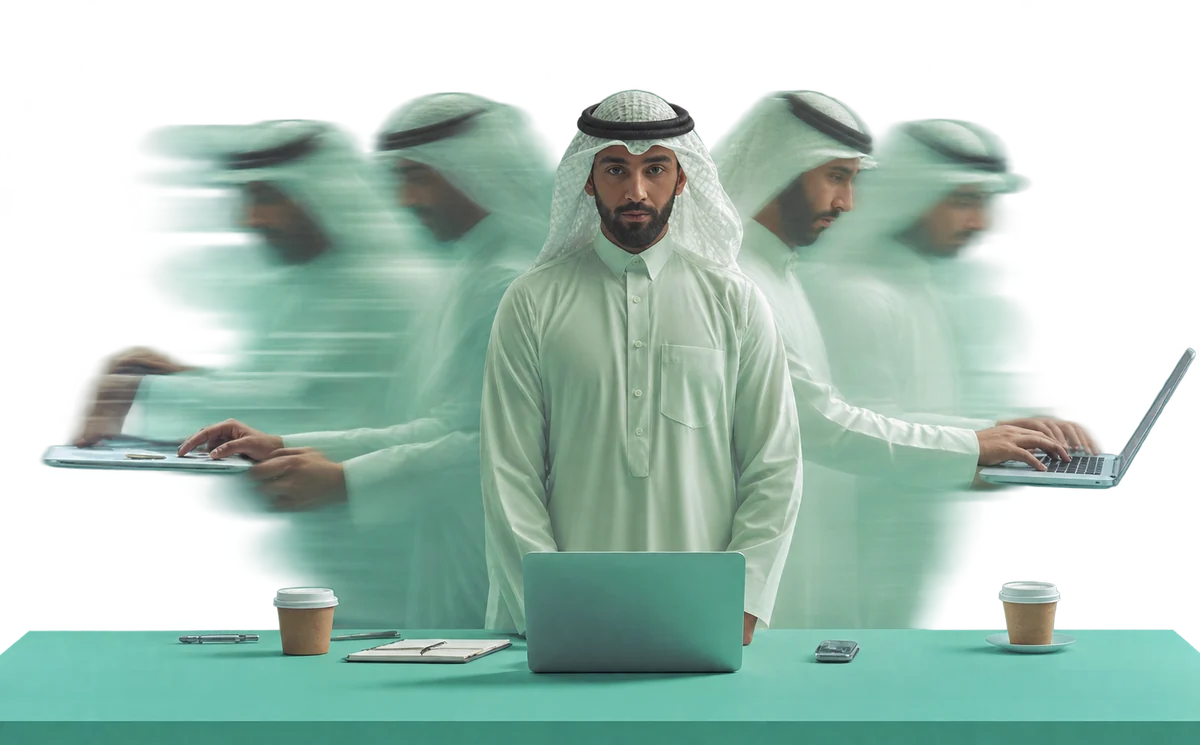
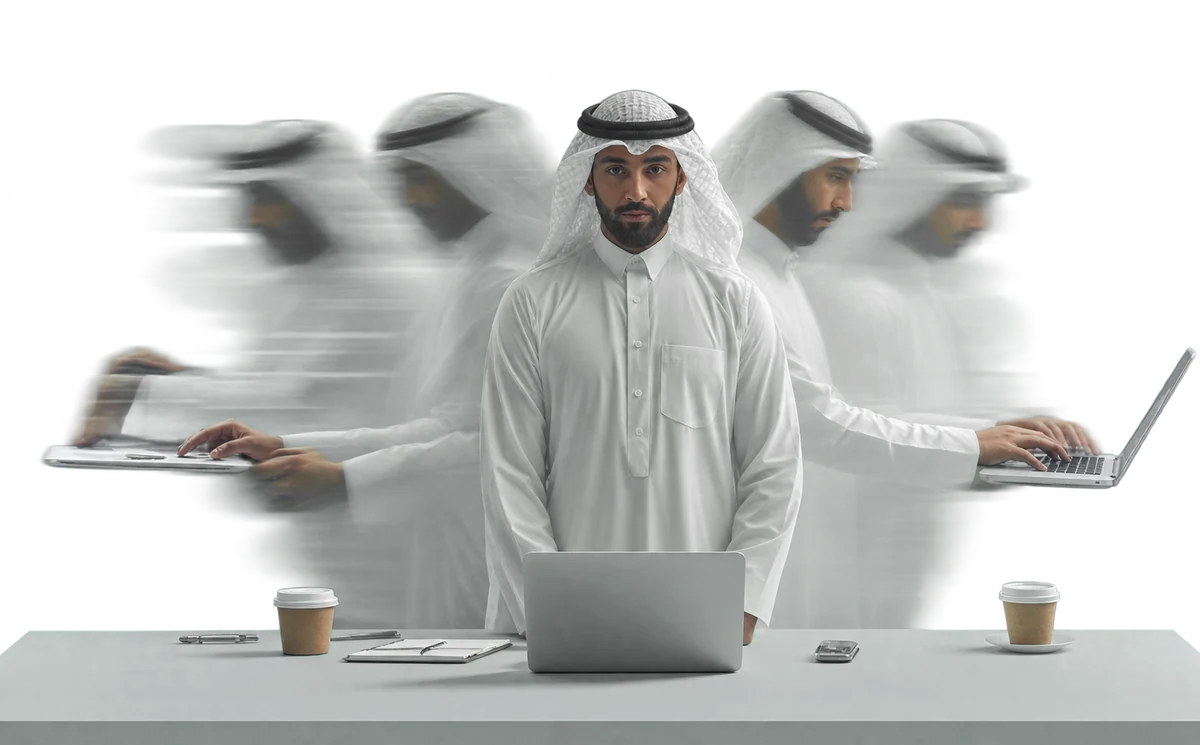
Remove green tint from multitask image; restore card backgrounds
Claude-Session: https://claude.ai/code/session_01Q8SfPFzKec2UT1Fop63zbA

diff --git a/services.html b/services.html
@@ -7211,7 +7211,6 @@ input, select, textarea {
   .as-cover img { object-fit:cover; object-position:center; }
   .as-contain img { object-fit:contain; object-position:center bottom; padding:10px 10px 0; box-sizing:border-box; }
   .as-card:hover .as-media img { transform:scale(1.06); }
-  .as-media:has(img[src*="wps-services"]) { background:#fff; }
 
   .as-media { position:relative; display:block; height:clamp(150px,13vw,180px); margin:-10px -8px 4px; border-radius:16px; overflow:hidden; background:radial-gradient(ellipse 70% 70% at 50% 60%, #ffffff 0%, #eef8f2 70%); box-shadow:0 0 0 1px rgba(13,155,73,.10); }
   .as-media img { width:100%; height:100%; display:block; transition:transform .7s cubic-bezier(.22,1,.36,1); }

diff --git a/index.html b/index.html
@@ -7732,7 +7732,6 @@ input, select, textarea {
           .dms-photo-area { display:flex !important; align-items:flex-end; justify-content:center; padding:0 !important; overflow:hidden; background:none !important; }
           .dms-photo-area .dms-photo { display:block; width:100%; max-width:640px; height:auto; transform:scale(1.02); transition:transform .6s cubic-bezier(.22,1,.36,1); }
           .dms-card:hover .dms-photo-area .dms-photo { transform:scale(1.06); }
-          .dms-card:has(.dms-photo-area) { background:#fff !important; box-shadow:0 0 0 1px #e6ebe7, 0 14px 32px rgba(7,63,44,.06) !important; }
         </style>
       </article>
 
